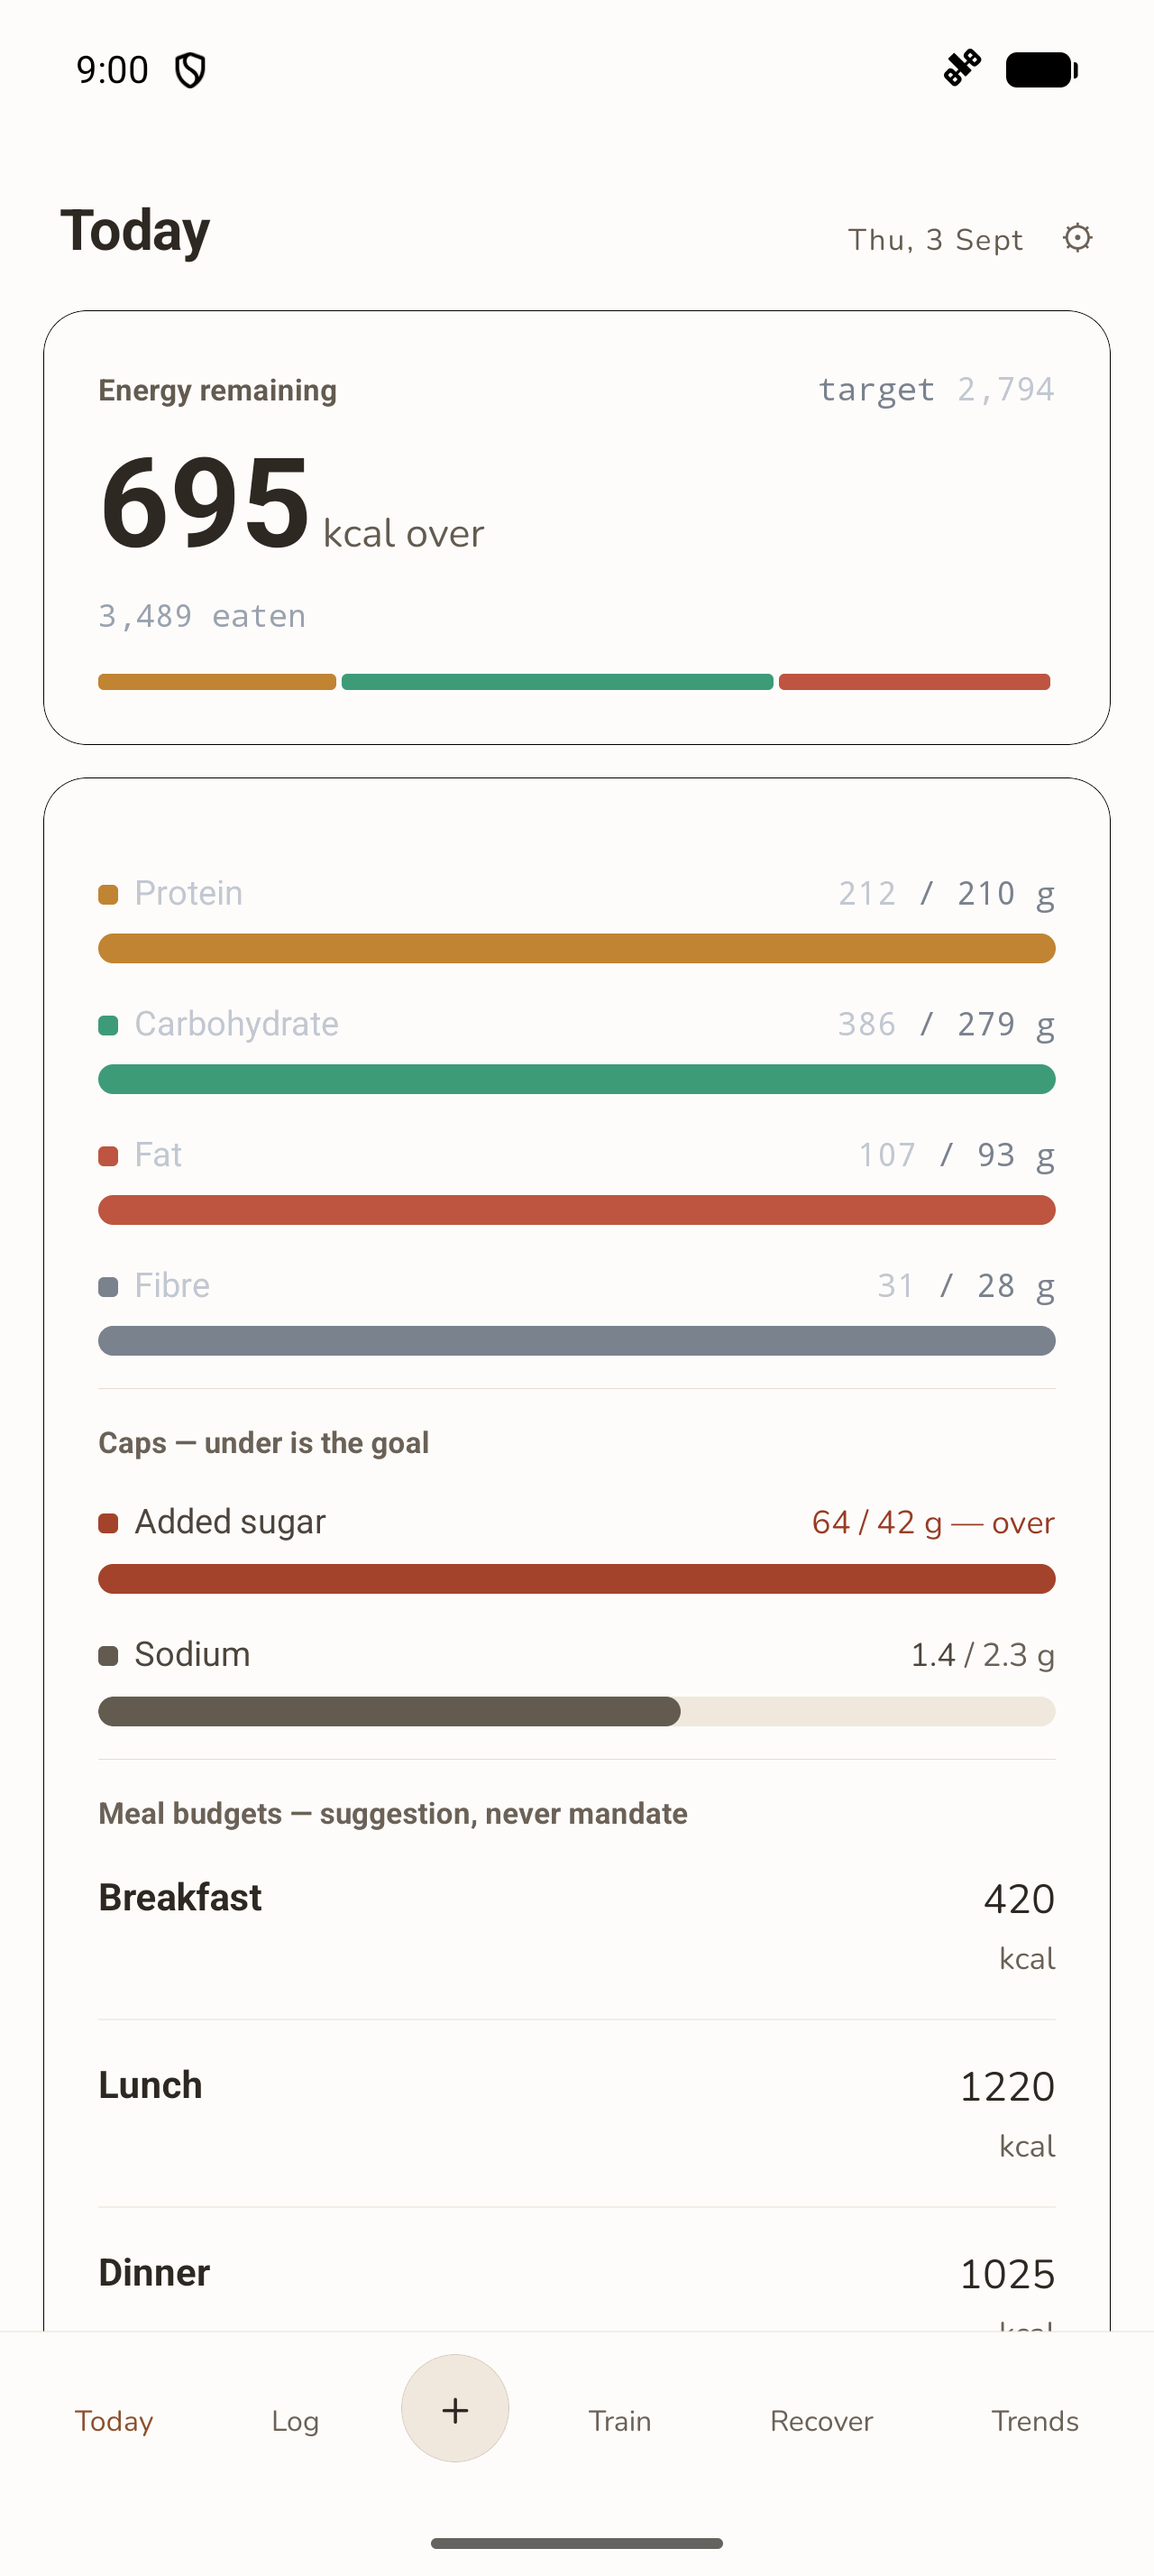
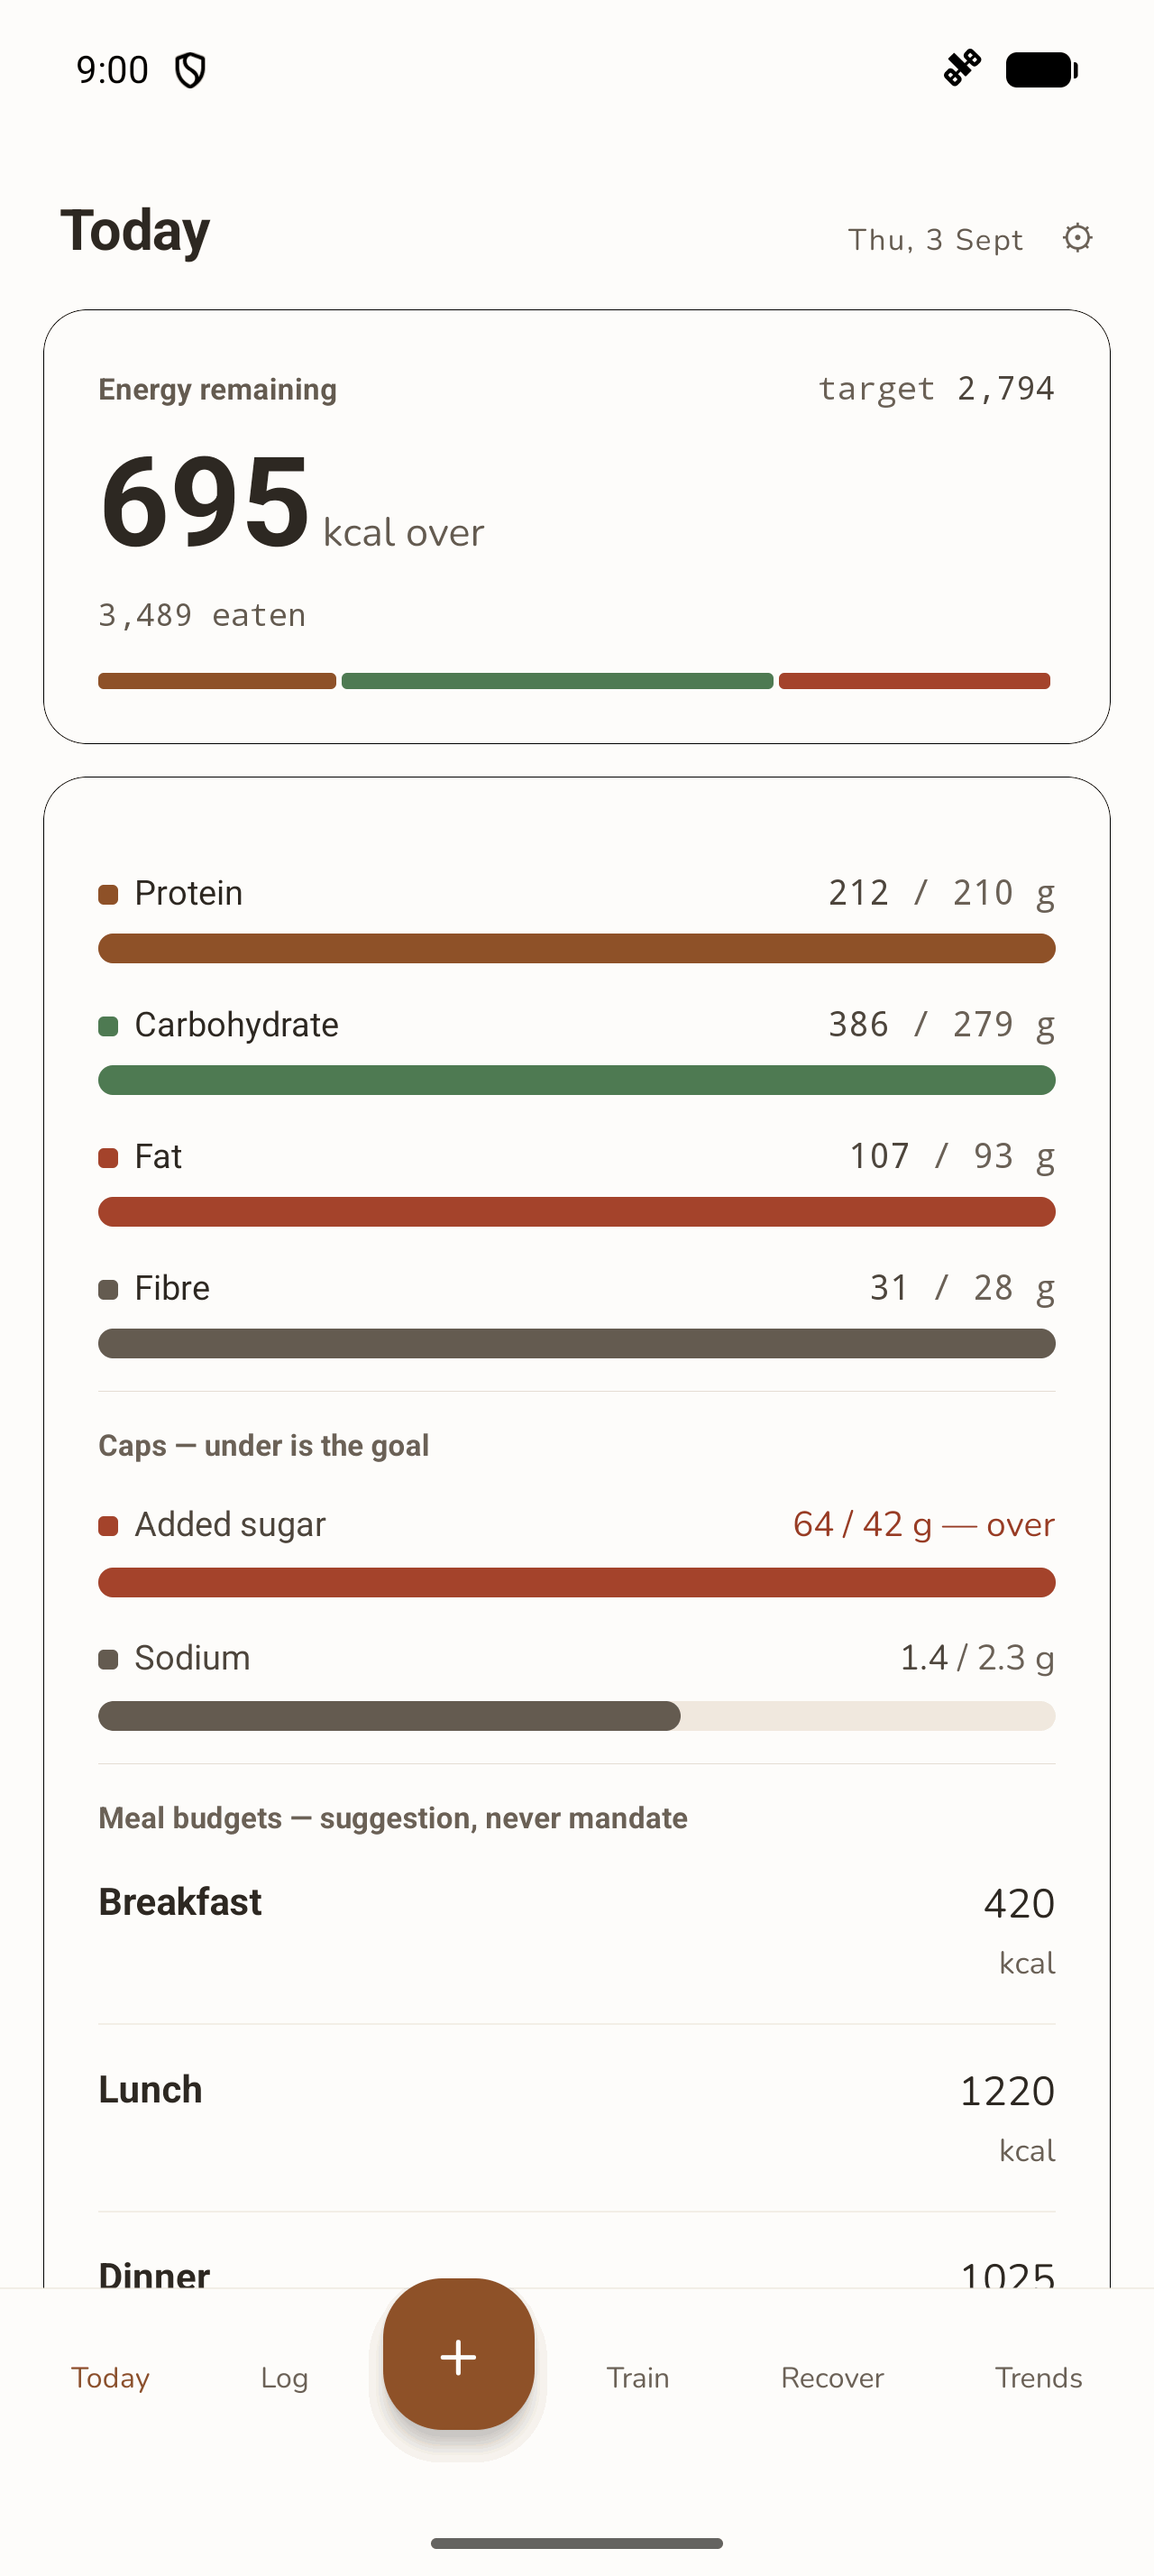
V3.3 wrap: re-taken shots, before/after crops, report; rowActions gap
Six README shots re-taken via the pipeline on the V3.3 build
(train-session, log-tray, log-capture-modes, walk-ready-weather,
trends-correlations, theme-humanist — same seeded day as the V3.2 set, so
the gallery stays data-consistent). Before/after crops for each surface in
docs/report-assets/v3.3/. The train rowActions row gains its missing gap —
'PLATESPRS' read as one word in the first capture.

diff --git a/app/src/screens/train/TrainScreen.tsx b/app/src/screens/train/TrainScreen.tsx
@@ -831,7 +831,7 @@ const styles = StyleSheet.create({
   endBtnText: { fontFamily: mono, fontSize: 11, letterSpacing: 1.2 },
   addSet: { fontFamily: mono, fontSize: 11, letterSpacing: 1.2, paddingVertical: 10 },
   addSetBtn: { flexGrow: 1, marginTop: 0, marginRight: 14 },
-  rowActions: { flexDirection: 'row', justifyContent: 'space-between', alignItems: 'center', marginTop: 12 },
+  rowActions: { flexDirection: 'row', justifyContent: 'space-between', alignItems: 'center', gap: 18, marginTop: 12 },
   linkAction: { fontFamily: mono, fontSize: 11, letterSpacing: 0.85, paddingTop: 8 },
   suggestion: { fontFamily: mono, fontSize: 11, letterSpacing: 0.38, lineHeight: 15, marginTop: 6 },
   fbRow: { flexDirection: 'row', alignItems: 'center', gap: 10, marginTop: 12 },

diff --git a/docs/V3.3-REPORT.md b/docs/V3.3-REPORT.md
@@ -1,0 +1,93 @@
+# V3.3 report — UI actions pass
+
+Branch `v3-3-actions` · 2026-09-04 · suite green at every commit (871 tests
+— +2: the theme-bypass guard and the water-tile pin). Findings came from the
+committed V3.2 README screenshots; before/after crops for each surface are
+in `docs/report-assets/v3.3/`.
+
+## The eleven items
+
+1. **Theme-bypass sweep** — ~400 `color.*` imports of the static Minimal
+   palette across 36 files (every screen, six shared ui components) now
+   route through `useTheme()`. This was the batch's real bug: five of the
+   six themes were rendering Minimal's colours on every bypassed surface —
+   unreadable light-on-paper rows on Humanist/Brutalist, dead accents
+   everywhere. Sleep-stage fills derive per theme (`sleepStagePalette`);
+   `themeBypass.test.ts` walks both source trees and fails on any static
+   `color` import outside the theme system, closing the gap the
+   conformance suite couldn't see (it proves themes are sound, not used).
+2. **Set completion** — each set row has a 48dp ✓ checkbox column: tap to
+   commit, tap to reopen. Keyboard-dismiss commit stays as the secondary
+   path. Completion itself is still typographic.
+3. **Train hierarchy** — Add set is a real bordered 48dp button per
+   exercise; End session moved to a compact header action confirmed by the
+   RPE bottom sheet (which gained "cancel — keep training"); Add exercise
+   dropped to secondary weight; Adapt is a Chip. `CTA` grew a `secondary`
+   variant and a 48dp min-height.
+4. **Tray commit bar** — bottom-anchored above the tab bar: running total
+   left, "Log N items" as a filled mark/markOn button, Clear as text.
+   LOG ALL is gone from the top banner (the banner is gone entirely).
+5. **Capture modes** — SEARCH/BARCODE/PHOTO/AI/MANUAL are a 44dp
+   segmented control at the bottom of the capture area, active segment
+   filled — unmistakable for the tab-level sub-nav now.
+6. **Start walk** — pinned bar above the tab bar (GPS accuracy + filled
+   CTA); weather, guided scripts, shoes and loops scroll behind it.
+7. **Quick log +** — 56dp, filled `fill.mark`/`fill.markOn` in every theme
+   (contrast pinned by conformance), raised above the bar line.
+8. **Fine print folds** — SrcNote self-measures: past two lines it shows
+   its first line + a why→ disclosure, expanding in place. The Trends
+   checked-not-shown list folds to "N pairs checked · none past
+   |r| ≥ 0.45 · show list" and expands in place with the r values.
+9. **Controls look like controls** — Settings Today-section rows are real
+   Switches (ReceiptRow grew a `right` slot); Recover's TRACK CYCLE
+   micro-label is a secondary button with its opt-in line kept beneath.
+10. **Water tile** — zero logged reads "Nothing logged yet · 3,000 ml"
+    (target stated), never a placeholder 0. Pinned by a tile-spec test.
+11. **Guided timer** — the countdown renders at 104 while counting (64
+    idle) and the phase label steps up; macro/cap ratio lines floor at
+    `max(12.5, scale.sm)` in the theme's data face — Athletic's condensed
+    face cramped at the old fixed 12.
+
+## Verification
+
+- `pnpm test` green at every commit; typecheck (`tsc --noEmit`) clean on
+  app and ui after every touched file.
+- DEVICE-TEST-PLAN gained **§25 Actions pass** — twelve on-device checks
+  covering every item above.
+- Re-taken README shots (same pipeline, same seeded account):
+  `train-session`, `log-tray`, `log-capture-modes`, `walk-ready-weather`,
+  `trends-correlations`, `theme-humanist`.
+
+## Before/after crops
+
+| surface | crop |
+|---|---|
+| Train action hierarchy + ✓ column | `docs/report-assets/v3.3/train-actions.png` |
+| Tray commit bar | `docs/report-assets/v3.3/tray-bar.png` |
+| Capture-mode segmented control | `docs/report-assets/v3.3/capture-modes.png` |
+| Start-walk pinned bar | `docs/report-assets/v3.3/start-walk-bar.png` |
+| Checked-not-shown fold | `docs/report-assets/v3.3/checked-not-shown.png` |
+| Humanist properly themed | `docs/report-assets/v3.3/humanist-theming.png` |
+
+## Caveats
+
+- The re-taken shots were captured on the emulator's Sep 3 clock (host was
+  already Sep 4) against the same seeded day as the V3.2 set — deliberate,
+  so the six-theme gallery and the walkthrough stay data-consistent.
+- The tray shot's items were staged through the manual form and cleared
+  without logging; the train-session shot's single committed set (and the
+  session around it) was ended through the new header flow and is real QA
+  data. A stray 190 kcal re-log from an emulator mis-tap was removed
+  through the app's own hold-to-remove.
+- The emulator fought back hard this run (launcher/SystemUI ANR loops on a
+  cold boot, guest wifi needing a manual associate, dropped keystrokes) —
+  all already documented in `scripts/readme-shots/screenshots.md`; nothing
+  new to add.
+- Item 10 is Tiles-scoped as briefed. The Ledger layout's water card still
+  renders a numeric 0 once hydration is enabled and unlogged — flagging
+  rather than silently expanding scope.
+- Dogfooded live during capture: set-✓ commit with PR mark + rest timer,
+  END SESSION header action with the cancel row, tray bar totals, capture
+  segments, pinned start-walk bar, folded SrcNotes (Today targets note,
+  shoe guidance), the checked-not-shown fold, Settings switches, and the
+  Humanist macro rows in ink.
